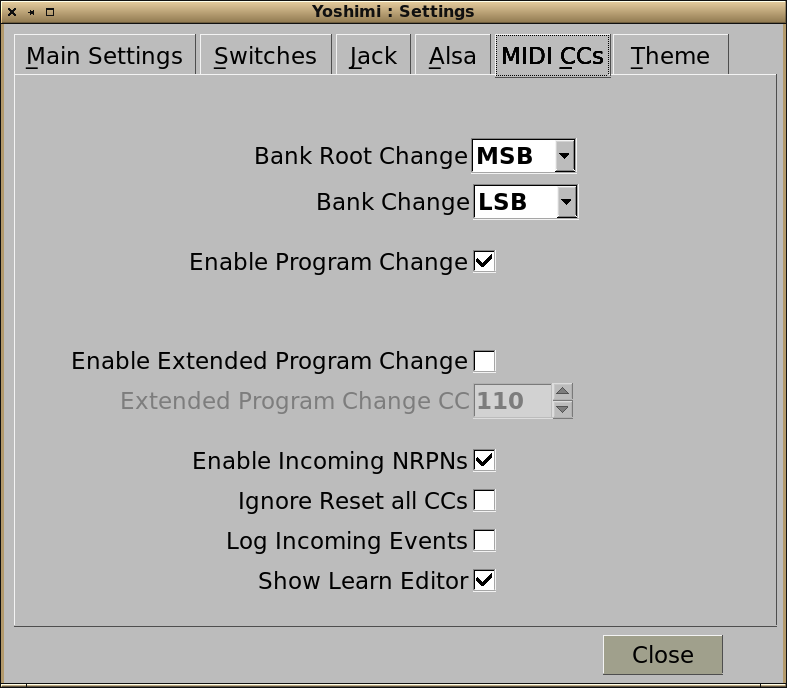
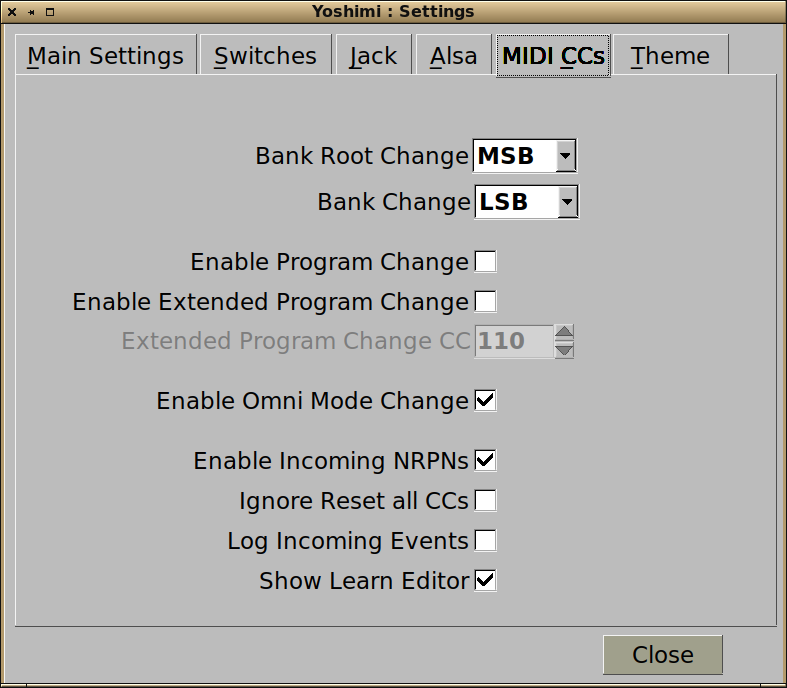
Deploy generated site
Based on source repo commit:
9adcf8ab58f619666edd9509676e6a73ff523e34

diff --git a/docs/user-guide/navigation/navigation.html b/docs/user-guide/navigation/navigation.html
@@ -99,20 +99,25 @@
       Selecting one of these doesn't actually set the <em>path</em> field as you may be simply wanting to organise the list. Clicking on the <b>Set</b> button will do so and return you to the main filer view. Also, a <em>double</em> click on one of the items will set the path and return you to the main view.
       <br><br>
       Clicking on the <em>Set</em> button will always set the highlighted entry, so entering the view then immediately doing this is a quick way to set the default.
-      <br><br>
-    <b>Note</b>
-    <br>
-    &emsp;Each time Yoshimi is started, loading and saving external <em>instruments</em> will always offer the default location (as set here). At other times and with all other file types the most recently seen will be offered (unless the recently seen list is empty).
-    </p>
-    <p>
     <h2 style="text-align: center">Various filer headings</h2>
     <img src="images/tuning_import.png" alt="Filer Tuning" class="double">
     <img src="images/bank_root.png" alt="Filer Root" class="double">
     <img src="images/bank_export.png" alt="Filer Export" class="double">
     <img src="images/bank_import.png" alt="Filer Import" class="double">
+    <br><br>
     <b>Note</b>
     <br>
     &emsp;Neither 'Path to Bank Root dirs' nor 'Bank to Import' have a name field. This is because you are directly importing or registering a path <em>containing</em> the respective files, not the individual files. Therefore the path 'leaf' <em>is</em> the name. However, when <em>exporting</em> a bank, you will want to give it a name.
+    </p>
+    <p>
+    &emsp;Each time Yoshimi is started, loading and saving external <em>instruments</em> will always offer the default location (as set here). At other times and with all other file types the most recently seen will be offered (unless the recently seen list is empty).
+    <br>
+    &emsp;Instruments are special. If they are accidentally overwritten, there will be no way to recreate them exactly as they were. For this reason you will also see a warning message if you take any action that could destroy edited but unsaved instruments.<br>
+    Typically:<br>
+    &emsp; Instruments in parts 2 5 21 44 have been edited. Still exit?
+    <br>
+    Or when loading a single instrument:<br>
+    &emsp; Instrument in part 7 has been edited. Overwrite?
     </p>
     <p>
     <a href="../main.html">Next</a> (The Main Window)

diff --git a/docs/user-guide/part/part.html b/docs/user-guide/part/part.html
@@ -21,7 +21,9 @@
     <p>
     Below the part number is the switch to enable or disable the entire part, and alongside this is the playing mode. This can be Polyphonic, Monophonic or Legato. Legato is not available if <em>Drum Mode</em> has been set in the <a href="#kit">Part Kit</a> editing window, and temporarily reverts to Poly with a red warning background.
     <br><br>
-    Just underneath these is the MIDI channel it will respond to and the switch to set whether <em>Portamento</em> between notes is allowed.
+    Just underneath these is the <b>Midi</b> channel it will respond to and the switch to set whether <em>Portamento</em> between notes is allowed.
+    <br><br>
+    If the <b>Omni</b> switch is enabled, then the part will listen for events on all MIDI channels instead of only the numbered one.
     </p>
     <p>
     The four controls to the right set the respective levels for the entire part.
@@ -38,9 +40,6 @@
      <b>Controllers</b> button opens the <a href="controllers.html">MIDI Controllers</a> window so you can adjust their ranges.
      <br><br>
      <b>Midi CCs</b> opens a window for the <a href="controllers.html#midiccs">MIDI CCs</a> window for emulating the 5 commonest controls.
-     <br><br>
-     The <b>Pan Law</b> menu selects one of three common panning behaviours. The default is close to a constant power output. The first number refers to the apparent level of the side it is panned to, and the other number is the equivalent output when switched to MONO.
-     </p>
      <p>
      Underneath 'Controllers' are the key range controls.
      <br><br>

diff --git a/downloads.html b/downloads.html
@@ -76,10 +76,10 @@ Here are links to source archives that you can compile on your machine.
   <tbody>
   <tr>
     <td>
-      <a href="https://github.com/Yoshimi/yoshimi/archive/2.3.3.1.zip">2.3.3.1</a>
+      <a href="https://github.com/Yoshimi/yoshimi/archive/2.3.4.zip">2.3.4</a>
     </td>
     <td>
-      <a href="https://github.com/Yoshimi/yoshimi/archive/2.3.3.1.tar.gz">2.3.3.1</a>
+      <a href="https://github.com/Yoshimi/yoshimi/archive/2.3.4.tar.gz">2.3.4</a>
     </td>
   </tr>
   </tbody>
@@ -99,6 +99,31 @@ Here are links to source archives that you can compile on your machine.
     </tr>
   </thead>
   <tbody>
+    <tr>
+      <td>
+        <a href="https://github.com/Yoshimi/yoshimi/archive/2.3.3.3.zip">2.3.3.3</a>
+      </td>
+      <td>
+        <a href="https://github.com/Yoshimi/yoshimi/archive/2.3.3.3.tar.gz">2.3.3.3</a>
+      </td>
+    </tr>
+
+    <tr>
+      <td>
+        <a href="https://github.com/Yoshimi/yoshimi/archive/2.3.3.2.zip">2.3.3.2</a>
+      </td>
+      <td>
+        <a href="https://github.com/Yoshimi/yoshimi/archive/2.3.3.2.tar.gz">2.3.3.2</a>
+      </td>
+    </tr>
+    <tr>
+      <td>
+        <a href="https://github.com/Yoshimi/yoshimi/archive/2.3.3.1.zip">2.3.3.1</a>
+      </td>
+      <td>
+        <a href="https://github.com/Yoshimi/yoshimi/archive/2.3.3.1.tar.gz">2.3.3.1</a>
+      </td>
+    </tr>
     <tr>
       <td>
         <a href="https://github.com/Yoshimi/yoshimi/archive/2.3.3.zip">2.3.3</a>

diff --git a/docs/user-guide/main.html b/docs/user-guide/main.html
@@ -128,6 +128,9 @@
     The second is by storing some settings as groups. An example is the resonance window. If you select a random graph, try it, then set another one to try, after that an undo will restore the entire previous graph. However if you manually drag elements of the graph, the graph points will be stored individually.
     <br><br>
     There are some limitations to 'Undo' and 'Redo'. Loading a new part, performing a master reset, etc. will clear the lists. It would not be sensible to try to modify elements that might no longer exist. Also some of the waveform controls make such extreme changes that attempting to store, then re-apply them would be prohibitively disruptive.
+    <br><br>
+    The <b>Pan Law</b> menu selects one of three common panning behaviours. The default is close to a constant power output. The first number refers to the apparent level of the side it is panned to, and the other number is the equivalent output when switched to MONO.
+    </p>
     </p>
     <p>
     <b>Detune</b> provides a very fine detune of the entire synth so you can match the pitch to any other synth or sound source you might be using.

diff --git a/docs/user-guide/miscellany.html b/docs/user-guide/miscellany.html
@@ -171,6 +171,44 @@
         Rich Decay Bass<br>
         SuperFat
       </div>
+      <br>
+      <b>V 2.3.3.3</b><br>
+    Drums
+      <div class="tab">
+        Big Drum<br>
+        Tambourine-01<br>
+        tambourine tap<br>
+        tambourine shake<br>
+        tambourine shakes<br>
+        pipe hit
+      </div>
+    Pads
+      <div class="tab">
+        fm sweep 01
+      </div>
+    Strings
+      <div class="tab">
+        Vintage Strings 01<br>
+        Vintage Strings low 01<br>
+        Vintage Strings 02<br>
+        Vintage Strings 03<br>
+        Vintage Strings 04
+      </div>
+    SynthPiano
+      <div class="tab">
+      Grand Piano 2<br>
+      Grand Piano 3
+      </div>
+    <br>
+    <b>V 2.3.4</b><br>
+    Strings
+      <div class="tab">
+          Fiddle Kit
+      </div>
+    Will Godfrey Companion
+      <div class="tab">
+        Hollow Pulse
+      </div>
     </p>
   </body>
 </html>

diff --git a/history.html b/history.html
@@ -224,6 +224,11 @@
     Additionally, the internals saw some improvements to memory-handling with a number of bugs being fixed in the process.
     There were also improvements to the config control, an extended range of keyboard shortcuts and fixes to some old display-issues.
   </p>
+  <p>
+    A few patch releases were made for 2.3.3.x in the first half of 2025 and then, in early June, 2.3.4 was released. This version introduced the Omni Control whereby any part could be made to receive MIDI signals from all incoming channels.
+    A number of quality-of-life improvements were made to the configuration system to prevent accidental loss of unsaved changes.
+  </p>
+
   <p>And the story continues...</p>
 
 </div>

diff --git a/docs/user-guide/index.html b/docs/user-guide/index.html
@@ -9,10 +9,10 @@
   </head>
   <body>
   <!-- The next line must not be changed in any way. It is edited at build time -->
-    <h1 style="text-align: center;">The Yoshimi User Guide V2.3.3<!--xxxxx--></h1>
+    <h1 style="text-align: center;">The Yoshimi User Guide V2.3.4<!--xxxxx--></h1>
 
 
-    <img src="images/Main.png" alt="Contents Window" class="image">
+    <img src="images/main.png" alt="Contents Window" class="image">
     <p>
     This image is the first, and main Yoshimi window. You may want to keep this view visible while reading the guide.
     </p>

diff --git a/docs/user-guide/config/config.html b/docs/user-guide/config/config.html
@@ -120,6 +120,8 @@
     <br>
     <b>e.g.</b> For loading the instrument at slot 130 you would send 2.
     <br><br>
+    <b>Enable Omni Mode Change</b> Enables/Disables receiving Omni Mode messages. Such a message overrides the Omni setting in the Parts section, until it is reset.
+    <br><br>
     <b>Enable Incoming NRPNs</b> Enables/Disables receiving NRPNs, but doesn't affect Vectors or MIDI Learn which are always available.
     <br><br>
     <b>Ignore Reset all CCs</b> Some devices send this command at inconvenient times, so, you can disable acting on it.

diff --git a/docs/user-guide/cc_nrpn.html b/docs/user-guide/cc_nrpn.html
@@ -122,6 +122,14 @@
       <td>123&emsp;</td>
       <td>All Notes Off</td>
     </tr>
+    <tr>
+      <td>124&emsp;</td>
+      <td>Omni Mode Off</td>
+    </tr>
+    <tr>
+      <td>125&emsp;</td>
+      <td>Omni Mode On</td>
+    </tr>
     </table>
     <a href="#top" class="up">Back to top</a>
     </p>
